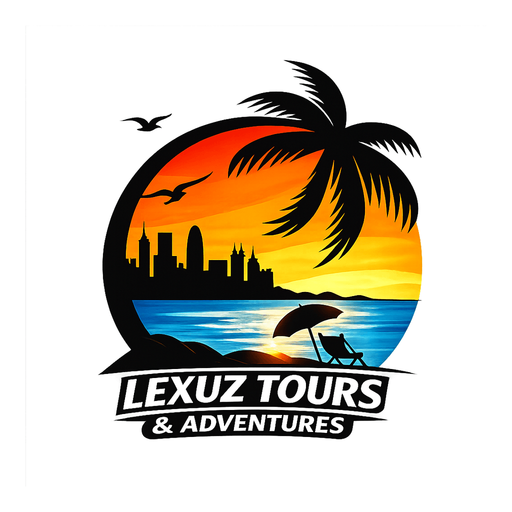
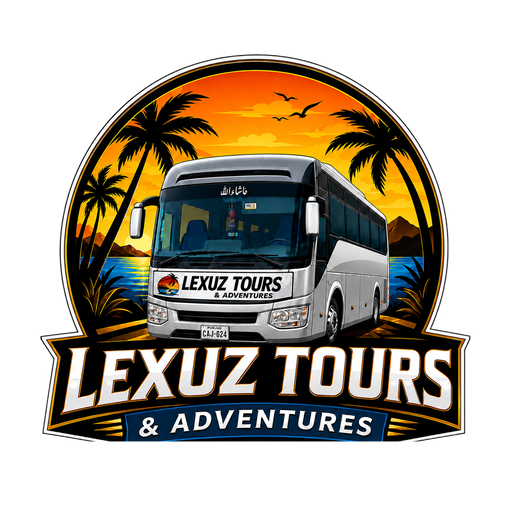
Install approved Lexuz brand assets

diff --git a/app/layout.tsx b/app/layout.tsx
@@ -17,21 +17,19 @@ export const metadata: Metadata = {
   manifest: "/site.webmanifest",
   icons: {
     icon: [
-      { url: "/favicon.ico", sizes: "32x32" },
-      { url: "/favicon-16x16.png", type: "image/png", sizes: "16x16" },
-      { url: "/favicon-32x32.png", type: "image/png", sizes: "32x32" },
-      { url: "/favicon-48x48.png", type: "image/png", sizes: "48x48" },
-      { url: "/favicon-64x64.png", type: "image/png", sizes: "64x64" },
-      { url: "/android-chrome-192x192.png", type: "image/png", sizes: "192x192" },
-      { url: "/android-chrome-512x512.png", type: "image/png", sizes: "512x512" }
+      { url: "/favicon.ico" },
+      { url: "/icons/favicon-16x16.png", type: "image/png", sizes: "16x16" },
+      { url: "/icons/favicon-32x32.png", type: "image/png", sizes: "32x32" },
+      { url: "/icons/favicon-48x48.png", type: "image/png", sizes: "48x48" }
     ],
     shortcut: "/favicon.ico",
-    apple: [{ url: "/apple-touch-icon.png", sizes: "180x180", type: "image/png" }]
+    apple: [{ url: "/icons/apple-touch-icon.png", sizes: "180x180", type: "image/png" }]
   },
   verification: {
     google: "b-8Z_3m32ZPgYpeQnvjOgOfQk1QmORNYK2iBVjnP8W0",
     other: {
-      "facebook-domain-verification": "k0srnh62oggwhxncg0zyb75usylqtd"
+      "facebook-domain-verification": "k0srnh62oggwhxncg0zyb75usylqtd",
+      "msapplication-config": "/browserconfig.xml"
     }
   },
   openGraph: {
@@ -39,14 +37,14 @@ export const metadata: Metadata = {
     description: "Adventure begins with Lexuz. Premium Pakistan travel booking company.",
     url: company.website,
     siteName: company.name,
-    images: [{ url: "/logo.png", width: 1024, height: 1024, alt: "Lexuz Tours & Adventures logo" }],
+    images: [{ url: "/brand/lexuz-og-image-1200x630.jpg", width: 1200, height: 630, alt: "Lexuz Tours & Adventures" }],
     type: "website"
   },
   twitter: {
     card: "summary_large_image",
     title: "Lexuz Tours & Adventures",
     description: "Adventure begins with Lexuz. Premium Pakistan travel booking company.",
-    images: ["/logo.png"]
+    images: ["/brand/lexuz-og-image-1200x630.jpg"]
   }
 };
 
@@ -58,20 +56,45 @@ export default function RootLayout({ children }: { children: React.ReactNode }) 
         "@type": "Organization",
         "@id": `${company.website}/#organization`,
         name: company.name,
+        legalName: company.legalName,
         url: company.website,
-        logo: `${company.website}/logo.png`,
+        logo: `${company.website}/brand/lexuz-logo-square.png`,
+        image: `${company.website}/brand/lexuz-og-image-1200x630.jpg`,
+        email: company.email,
+        telephone: company.callPhone,
+        address: {
+          "@type": "PostalAddress",
+          streetAddress: "Office No. 6, 1st Floor, Mustafa Plaza, 6th Road, D Block, Satellite Town",
+          addressLocality: "Rawalpindi",
+          addressRegion: "Punjab",
+          addressCountry: "PK"
+        },
+        contactPoint: {
+          "@type": "ContactPoint",
+          contactType: "customer service",
+          telephone: company.callPhone,
+          url: company.whatsappHref
+        },
         sameAs: [company.facebook, company.instagram]
       },
       {
         "@type": ["TravelAgency", "LocalBusiness"],
         "@id": `${company.website}/#travelagency`,
         name: company.name,
+        legalName: company.legalName,
         url: company.website,
-        image: `${company.website}/logo.png`,
+        logo: `${company.website}/brand/lexuz-logo-square.png`,
+        image: `${company.website}/brand/lexuz-og-image-1200x630.jpg`,
         email: company.email,
         telephone: company.callPhone,
         priceRange: "PKR",
         foundingDate: String(company.founded),
+        contactPoint: {
+          "@type": "ContactPoint",
+          contactType: "customer service",
+          telephone: company.callPhone,
+          url: company.whatsappHref
+        },
         parentOrganization: { "@id": `${company.website}/#organization` },
         address: {
           "@type": "PostalAddress",

diff --git a/components/Header.tsx b/components/Header.tsx
@@ -91,12 +91,9 @@ export function Header() {
   return (
     <header className="sticky top-0 z-50 px-3 py-3">
       <div className={`mx-auto flex w-full max-w-[1280px] items-center justify-between gap-4 rounded-[26px] border border-white/65 bg-white/74 px-4 shadow-[0_26px_86px_rgba(7,31,8,.17)] backdrop-blur-[30px] transition-all duration-500 supports-[backdrop-filter]:bg-white/66 sm:px-6 xl:px-8 ${scrolled ? "h-[62px] rounded-[22px] shadow-[0_20px_64px_rgba(7,31,8,.18)]" : "h-[74px]"}`}>
-        <Link href="/" className="focus-ring group flex min-w-0 shrink-0 items-center gap-3 rounded-2xl py-1 pl-1 pr-3 transition hover:bg-white/55" aria-label="Lexuz Tours home">
-          <Image src="/logo-lexuz-display.webp" alt="Lexuz Tours & Adventures logo" width={64} height={64} sizes="64px" className={`rounded-full bg-white object-contain ring-1 ring-lexuzNeutral-line transition-all duration-300 group-hover:scale-[1.03] ${scrolled ? "h-11 w-11" : "h-12 w-12 sm:h-[52px] sm:w-[52px]"}`} priority />
-          <div className="leading-[1.02]">
-            <strong className="block whitespace-nowrap text-[14px] font-black uppercase tracking-[.02em] text-brand-primary sm:text-[15px]">Lexuz Tours</strong>
-            <span className="block whitespace-nowrap text-[10px] font-black uppercase tracking-[.08em] text-lexuzNeutral-60 sm:text-[11px]">& Adventures</span>
-          </div>
+        <Link href="/" className="focus-ring group flex min-w-0 shrink-0 items-center rounded-2xl p-1 transition hover:bg-white/55" aria-label="Lexuz Tours home">
+          <Image src="/icons/android-chrome-192x192.png" alt="Lexuz Tours & Adventures" width={192} height={192} unoptimized className={`w-auto object-contain transition-all duration-300 group-hover:scale-[1.03] sm:hidden ${scrolled ? "h-10" : "h-12"}`} priority />
+          <Image src="/brand/lexuz-logo-header.webp" alt="Lexuz Tours & Adventures" width={1200} height={500} sizes="(min-width: 1024px) 192px, 154px" className={`-my-3 hidden w-auto object-contain transition-all duration-300 group-hover:scale-[1.02] sm:block ${scrolled ? "h-16" : "h-20"}`} priority />
         </Link>
 
         <nav aria-label="Primary navigation" className="hidden flex-1 items-center justify-center gap-1.5 text-[13px] font-semibold text-lexuzNeutral-70 lg:flex xl:gap-2.5 xl:text-sm">

diff --git a/lib/seo-foundation/schema.ts b/lib/seo-foundation/schema.ts
@@ -16,8 +16,25 @@ export function buildOrganizationSchema(_options: OrganizationSchemaOptions = {}
     "@type": "Organization",
     "@id": `${company.website}/#organization`,
     name: company.name,
+    legalName: company.legalName,
     url: company.website,
-    logo: `${company.website}/logo.png`,
+    logo: `${company.website}/brand/lexuz-logo-square.png`,
+    image: `${company.website}/brand/lexuz-og-image-1200x630.jpg`,
+    email: company.email,
+    telephone: company.callPhone,
+    address: {
+      "@type": "PostalAddress",
+      streetAddress: "Office No. 6, 1st Floor, Mustafa Plaza, 6th Road, D Block, Satellite Town",
+      addressLocality: "Rawalpindi",
+      addressRegion: "Punjab",
+      addressCountry: "PK"
+    },
+    contactPoint: {
+      "@type": "ContactPoint",
+      contactType: "customer service",
+      telephone: company.callPhone,
+      url: company.whatsappHref
+    },
     sameAs: [company.facebook, company.instagram]
   };
 }
@@ -28,10 +45,18 @@ export function buildTravelAgencySchema() {
     "@type": ["TravelAgency", "LocalBusiness"],
     "@id": `${company.website}/#travelagency`,
     name: company.name,
+    legalName: company.legalName,
     url: company.website,
-    image: `${company.website}/logo.png`,
+    logo: `${company.website}/brand/lexuz-logo-square.png`,
+    image: `${company.website}/brand/lexuz-og-image-1200x630.jpg`,
     email: company.email,
     telephone: company.callPhone,
+    contactPoint: {
+      "@type": "ContactPoint",
+      contactType: "customer service",
+      telephone: company.callPhone,
+      url: company.whatsappHref
+    },
     priceRange: "PKR",
     address: {
       "@type": "PostalAddress",

diff --git a/components/Footer.tsx b/components/Footer.tsx
@@ -29,9 +29,8 @@ export function Footer() {
     <footer className="night-sky mountain-silhouette text-white">
       <div className="container-page relative z-10 grid gap-10 py-16 md:grid-cols-[1.25fr_0.85fr_0.85fr_1.25fr]">
         <div>
-          <div className="flex items-center gap-3">
-            <Image src="/logo-lexuz-display.webp" alt="Lexuz Tours & Adventures logo" width={72} height={72} sizes="64px" className="h-16 w-16 rounded-full bg-white object-contain ring-1 ring-white/20" />
-            <div><strong className="text-xl font-black uppercase leading-none">Lexuz Tours</strong><p className="text-sm font-bold text-white/75">& Adventures</p></div>
+          <div className="flex items-center">
+            <Image src="/brand/lexuz-logo-header.webp" alt="Lexuz Tours & Adventures" width={1200} height={500} sizes="240px" className="h-24 w-auto max-w-full object-contain" />
           </div>
           <p className="mt-4 max-w-sm text-sm leading-6 text-white/75">{company.mission}</p>
           <div className="luxury-glass mt-5 flex items-center gap-2 rounded-dsMd p-3 text-sm text-forest-950">

diff --git a/components/CityHubPage.tsx b/components/CityHubPage.tsx
@@ -86,10 +86,18 @@ function citySchema(hub: CityHub, visibleTours: Tour[]) {
     "@type": ["TravelAgency", "LocalBusiness"],
     "@id": `${company.website}/#travelagency-${hub.code}`,
     name: `${company.name} ${hub.name} Departures`,
+    legalName: company.legalName,
     url: absoluteUrl(hub.path),
-    image: `${company.website}/logo.png`,
+    logo: `${company.website}/brand/lexuz-logo-square.png`,
+    image: `${company.website}/brand/lexuz-og-image-1200x630.jpg`,
     email: company.email,
     telephone: company.callPhone,
+    contactPoint: {
+      "@type": "ContactPoint",
+      contactType: "customer service",
+      telephone: company.callPhone,
+      url: company.whatsappHref
+    },
     parentOrganization: { "@id": `${company.website}/#organization` },
     areaServed: [{ "@type": "City", name: hub.name }, { "@type": "Country", name: "Pakistan" }],
     makesOffer: visibleTours.slice(0, 8).map((tour) => ({

diff --git a/components/FounderImage.tsx b/components/FounderImage.tsx
@@ -3,7 +3,7 @@
 import Image from "next/image";
 import { useState } from "react";
 
-const fallbackLogo = "/logo-lexuz-display.webp";
+const fallbackLogo = "/brand/lexuz-logo-square.png";
 
 export function FounderImage({ src, name, position }: { src: string | null; name: string; position: string }) {
   const [failed, setFailed] = useState(false);

diff --git a/data/company.ts b/data/company.ts
@@ -1,5 +1,6 @@
 export const company = {
   name: "Lexuz Tours & Adventures",
+  legalName: "LEXUZ TOURS (SMC-PRIVATE) LIMITED",
   shortName: "Lexuz Tours",
   mission: "Premium, carefully planned and memorable travel experiences across Pakistan.",
   phone: "0309 9318249",
